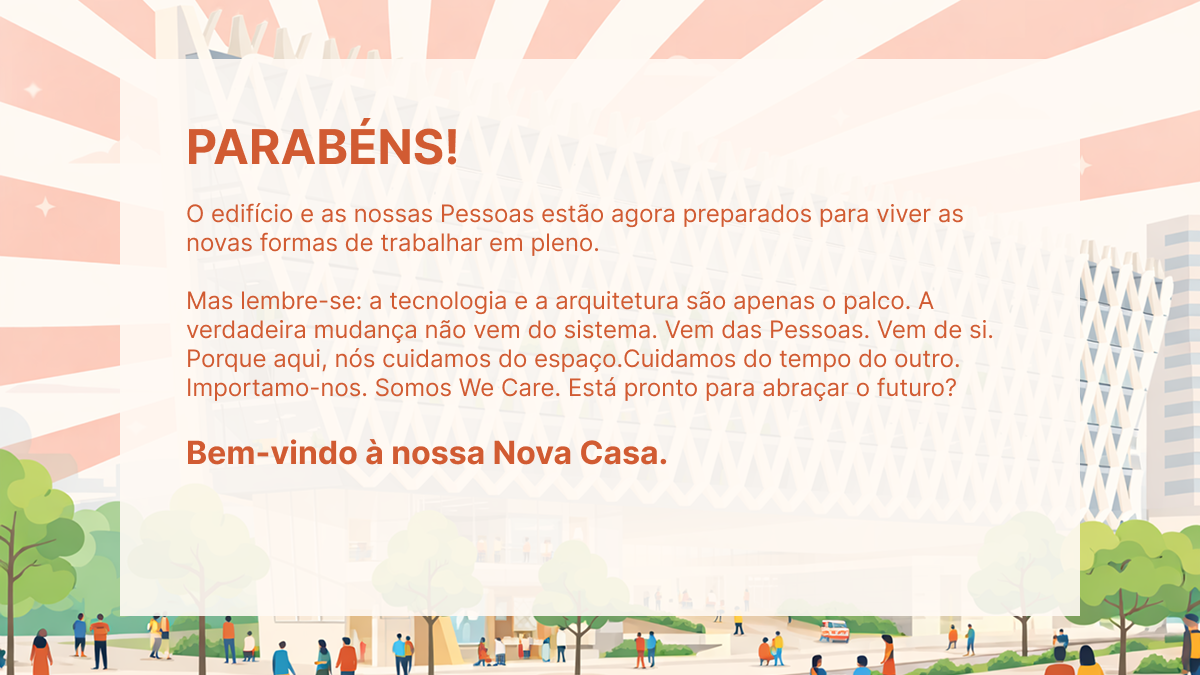
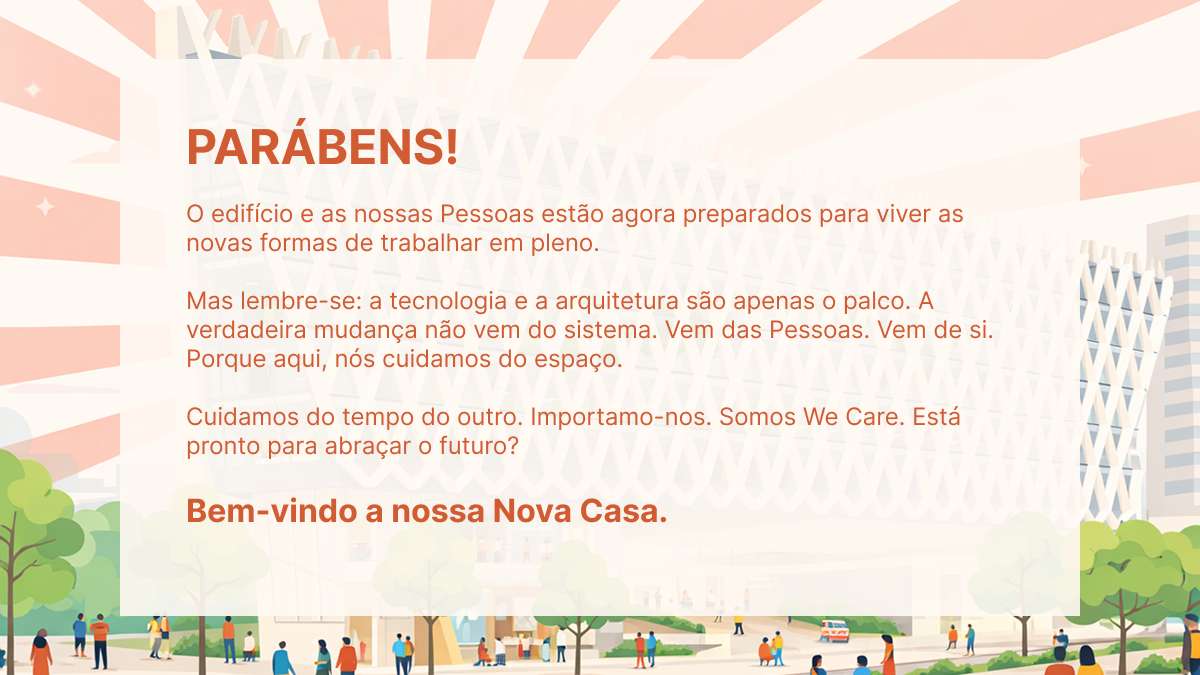
Formatação itálico para termos em inglês (Open Space, Phonebooth, huddle room, Daily) e outras alterações pendentes

Changed region(s): [[0.1542, 0.4978, 0.8017, 0.6844], [0.1542, 0.7156, 0.555, 0.7778]]

diff --git a/3_navegacao/index.html b/3_navegacao/index.html
@@ -16,12 +16,11 @@
         <!-- Ecrã de Missão (Overlay sobre o fundo do jogo) -->
         <div id="mission-screen">
             <div class="mission-content">
-                <h1 class="mission-title">A tua missão...</h1>
+                <h1 class="mission-title">A TUA MISSÃO...</h1>
                 <p class="mission-description">
-                    És o Controlador de Tráfego do Escritório! 9 colaboradores precisam de trabalhar, mas os espaços são
-                    limitados. Tua Missão: Arrasta cada pessoa para o local adequado à sua tarefa. ⚠ ATENÇÃO: Cada
-                    tarefa ocupa a sala por um tempo (segundos). Se a sala ideal estiver ocupada, coloque o colega na
-                    SALA DE ESPERA. Não deixe ninguém sem lugar!
+                    És o Office Traffic Controller! 9 colaboradores precisam de trabalhar, mas os espaços são limitados.
+                    A tua missão é arrastar cada pessoa para o local mais adequado à sua tarefa.
+                    ATENÇÃO: Cada tarefa ocupa a sala durante algum tempo. Se a sala ideal estiver ocupada, coloca o colega na SALA DE ESPERA. Não deixes ninguém sem lugar!
                 </p>
 
                 <h2 class="mission-subtitle">Tipos de tarefas</h2>
@@ -29,15 +28,15 @@
                 <div class="mission-cards">
                     <div class="mission-card card-blue">
                         <h3>E-mail / Chat</h3>
-                        <p class="location-text">OPEN SPACE</p>
+                        <p class="location-text"><i>OPEN SPACE</i></p>
                     </div>
                     <div class="mission-card card-red">
                         <h3>Confidencial / Feedback</h3>
-                        <p class="location-text">PHONEBOOTH</p>
+                        <p class="location-text"><i>PHONEBOOTH</i></p>
                     </div>
                     <div class="mission-card card-green">
-                        <h3>Daily / Alinhamento</h3>
-                        <p class="location-text">HUDDLE ROOM</p>
+                        <h3><i>Daily</i> / Alinhamento</h3>
+                        <p class="location-text"><i>HUDDLE ROOM</i></p>
                     </div>
                 </div>
 
@@ -100,7 +99,7 @@
                                 <div class="card-timer hidden"></div>
                             </div>
                         </div>
-                        <div class="workspace-label">OPEN SPACE</div>
+                        <div class="workspace-label"><i>OPEN SPACE</i></div>
                     </div>
 
                     <!-- PHONEBOOTH -->
@@ -110,7 +109,7 @@
                                 <div class="card-timer hidden"></div>
                             </div>
                         </div>
-                        <div class="workspace-label">PHONEBOOTH</div>
+                        <div class="workspace-label"><i>PHONEBOOTH</i></div>
                     </div>
 
                     <!-- HUDDLE ROOM -->
@@ -120,7 +119,7 @@
                                 <div class="card-timer hidden"></div>
                             </div>
                         </div>
-                        <div class="workspace-label">HUDDLE ROOM</div>
+                        <div class="workspace-label"><i>HUDDLE ROOM</i></div>
                     </div>
                 </div>
             </div>

diff --git a/4_sincronizacao/js/config.js b/4_sincronizacao/js/config.js
@@ -19,20 +19,20 @@ const CONFIG = {
             alert: "Alerta de Áudio: Eco detetado.",
             coords: { x: 170, y: 396 },
             options: [
-                { id: 'A', text: "Baixar volume do portátil do João", correct: false },
+                { id: 'A', text: "Baixar o volume do portátil do João:", correct: false },
                 { id: 'B', text: "Desligar microfone do portátil do João", correct: true }
             ]
         },
         {
             id: 2,
-            title: "INTERAÇÃO 2 — HEADSETS DUPLICADOS",
+            title: "INTERAÇÃO 2 — <i>HEADPHONES</i> DUPLICADOS",
             visualDesc: "Três colegas na mesa usam headsets individuais e olham para os seus próprios ecrãs",
             visualIcon: "🎧",
-            alert: "Colaboradores com headsets no mesmo espaço físico.",
+            alert: "Colaboradores com <i>headphones</i> no mesmo espaço físico.",
             coords: { x: 362, y: 260 },
             options: [
                 { id: 'A', text: "Pedir atenção aos colaboradores.", correct: false },
-                { id: 'B', text: "Pedir para retirarem os headsets e usarem o áudio da sala.", correct: true }
+                { id: 'B', text: "Pedir para retirarem os <i>headphones</i> e usarem o áudio da sala.", correct: true }
             ]
         },
         {
@@ -56,7 +56,7 @@ const CONFIG = {
             coords: { x: 539, y: 401 },
             options: [
                 { id: 'A', text: "Pedir para afastar o microfone do teclado.", correct: true },
-                { id: 'B', text: "Solicitar que colaborador desligue o microfone.", correct: false }
+                { id: 'B', text: "Pedir que colaborador desligue o microfone.", correct: false }
             ]
         },
         {
@@ -68,7 +68,7 @@ const CONFIG = {
             coords: { x: 226, y: 260 },
             options: [
                 { id: 'A', text: "Ignorar, pois não é sobre a reunião.", correct: false },
-                { id: 'B', text: "Pedir para partilhar os comentários com quem está remoto.", correct: true }
+                { id: 'B', text: "Pedir para partilhar os comentários com quem está online.", correct: true }
             ]
         }
     ],

diff --git a/2_convivencia/js/config.js b/2_convivencia/js/config.js
@@ -12,9 +12,9 @@ const CONFIG = {
     },
     TEXTS: {
         title: "Convivência",
-        startDescription: "Open space requer autorregulação e consciência de que não estamos sozinhos no espaço. Identifique os 3 atritos nesta cena.",
+        startDescription: "<i>Open space</i> requer autorregulação e consciência de que não estamos sozinhos no espaço. Identifique os 3 necessidades de ajustes nesta cena.",
         wrongClick: "Nada de errado por aqui. Você perdeu 10 segundos do tempo geral",
-        endMessage: "Atritos Identificados. Módulo de Convivência Instalado."
+        endMessage: "Necessidades de ajustes identificadas. Módulo de Convivência Instalado."
     },
     HIDDEN_SPOTS: [
         {
@@ -23,7 +23,7 @@ const CONFIG = {
             y: 270,
             width: 64,
             height: 136,
-            message: "ATRITO IDENTIFICADO. Um colaborador a falar alto ao telemóvel no meio das mesas."
+            message: "NECESSIDADE DE AJUSTE. Um colaborador a falar alto ao telemóvel no <i>open space</i>."
         },
         {
             id: "local-2",
@@ -31,7 +31,7 @@ const CONFIG = {
             y: 375,
             width: 211,
             height: 212,
-            message: "ATRITO IDENTIFICADO! Duas pessoas a ter uma reunião de pé ao lado de alguém concentrado."
+            message: "NECESSIDADE DE AJUSTE! Duas pessoas estão a ter uma reunião de pé ao lado de alguém que está concentrado, o que pode dificultar o foco no <i>open space</i>."
         },
         {
             id: "local-3",
@@ -39,7 +39,7 @@ const CONFIG = {
             y: 456,
             width: 156,
             height: 121,
-            message: "ATRITO IDENTIFICADO! Ele estava a fazer reuniões com fones, mas a falar em volume elevado."
+            message: "NECESSIDADE DE AJUSTE! Ela está a fazer reuniões com fones, mas a falar em volume elevado."
         }
     ]
 };

diff --git a/1_adaptacao/index.html b/1_adaptacao/index.html
@@ -16,10 +16,8 @@
     <!-- Ecrã de Introdução -->
     <div id="intro-screen" class="screen">
         <div class="screen-content">
-            <h1 class="screen-title">CIRCUITO NEURAL</h1>
-            <p class="screen-subtitle">O 'Circuito Neural' da mudança foi interrompido pela resistência. A energia não
-                está a fluir. A sua missão é criar um caminho contínuo que conecte a 'Entrada de Energia' até à 'Saída',
-                passando pelos 3R na ordem correta</p>
+            <h1 class="screen-title">CIRCUITO DE ADAPTAÇÃO</h1>
+            <p class="screen-subtitle"> O “circuito neural” da mudança foi interrompido pela resistência. A energia deixou de fluir. A tua missão é criar um caminho contínuo que ligue a Entrada de Energia à Saída, passando pelos 3R na ordem correta.</p>
             <img src="assets/buttons/botao_comecar.png" alt="Começar" class="btn-image" id="startGameBtn">
         </div>
     </div>
@@ -32,8 +30,7 @@
             <div class="circuit-marker circuit-marker-end" id="marker-end">ADAPTAÇÃO<br>CONCLUÍDA</div>
             <div id="overlay">
                 <h1 class="overlay-title">CIRCUITO ESTABILIZADO!</h1>
-                <p class="overlay-text">A corrente flui corretamente: <br> Reconhecimento &gt; Respeito &gt;
-                    Reorientação.<br>
+                <p class="overlay-text">A corrente flui corretamente: <br> Reconhecimento &gt; Respeito &gt; Reorientação.<br>
                     Módulo de Adaptação online</p>
                 <button class="btn btn-return-panel" onclick="localStorage.setItem('escaperoom_progress', '1'); window.location.href='/principal/';">Voltar ao Painel de Controlo</button>
             </div>

diff --git a/6_organizacao/js/config.js b/6_organizacao/js/config.js
@@ -33,17 +33,17 @@ const CONFIG = {
 
     TEXTS: {
         introMessage:
-            "ORGANIZAÇÃO:\nAnalise os objetos destacados e decida o destino imediato: LIXO, CACIFO ou MANTER NA MESA. Depois, deverá ir à zona de Cacifos e guardar os seus pertences",
+            "ORGANIZAÇÃO:\nObserva os objetos e decide o destino imediato de cada um: LIXO, CACIFO ou MANTER NA MESA.<br>Depois, deverás ir à zona dos cacifos e guardar os teus pertences.",
         phase1Header: "FASE 1 - ARRUMAR A MESA",
         phase2Header: "FASE 2 - GUARDAR NO CACIFO",
         phase2Instruction: "Escolha um armário, defina a senha e depois reencontre-o.",
-        allPhase1Done: "Mesa organizada. Agora siga para os cacifos.",
+        allPhase1Done: "Secretária 100% limpa e organizada. Protocolo Clean Desk validado.<br>Vamos até à zona de cacifos para guardar os pertences",
         wrongChoice: "Destino incorreto.",
         localIncorreto: "Local incorreto!",
         rightChoice: "Correto!",
         pinSetPrompt: "CRIE UMA SENHA",
         pinEnterPrompt: "INSIRA A SENHA",
-        phase2FindLockerPrompt: "Agora, encontre ter cacifo e insira a senha para coletar seus pertences",
+        phase2FindLockerPrompt: "Agora, encontre teu cacifo e insira a senha para coletar teus pertences",
         winTitle: "ACESSO PERMITIDO",
         winMsg: "Você concluiu as duas fases da organização.",
         loseTitle: "SISTEMA BLOQUEADO",

diff --git a/2_convivencia/index.html b/2_convivencia/index.html
@@ -18,8 +18,7 @@
             <div class="intro-content">
                 <h1 class="intro-title">Convivência</h1>
                 <p class="intro-description">
-                    Open space requer autorregulação e consciência de que não estamos sozinhos no espaço.
-                    Identifique os 3 atritos nesta cena.
+                    O <i>open space</i> exige autorregulação e consciência de que partilhamos o espaço com outras pessoas. <br>Identifica as necessidades de ajustes nesta cena.
                 </p>
                 <button id="start-btn" class="image-btn" aria-label="Iniciar jogo">
                     <img src="assets/botao_iniciar.png" alt="Iniciar">
@@ -30,7 +29,7 @@
         <div id="game-screen" class="screen hidden">
             <div id="scene-area" aria-label="Cena interativa de convivência"></div>
             <div id="message-layer" aria-hidden="true"></div>
-            <div id="status-pill">Atritos identificados: <span id="found-count">0</span>/3</div>
+            <div id="status-pill">Necessidades de ajustes identificadas: <span id="found-count">0</span>/3</div>
         </div>
 
         <div id="victory-screen" class="screen hidden">

diff --git a/6_organizacao/index.html b/6_organizacao/index.html
@@ -23,8 +23,8 @@
             <h1>ORGANIZAÇÃO</h1>
             <p id="start-message">
                 ORGANIZAÇÃO:<br>
-                Analise os objetos destacados e decida o destino imediato: LIXO, CACIFO ou MANTER NA MESA.
-                Depois, deverá ir à zona de Cacifos e guardar os seus pertences.
+                Observa os objetos e decide o destino imediato de cada um: LIXO, CACIFO ou MANTER NA MESA.<br>
+                Depois, deverás ir à zona dos cacifos e guardar os teus pertences.
             </p>
             <button id="start-btn" class="image-btn">
                 <img src="assets/buttons/botao_iniciar.png" alt="Iniciar Jogo">
@@ -55,7 +55,7 @@
             <div id="lockers-intro-screen" class="hidden">
                 <div class="lockers-intro-overlay">
                     <p id="lockers-intro-message">
-                        Selecione um cacifo<br>
+                        Escolhe um cacifo para guardar<br>
                         Crie uma senha depois selecine o mesmo cacifo e digita a senha
                     </p>
                     <button id="lockers-intro-btn" class="image-btn">

diff --git a/4_sincronizacao/js/game.js b/4_sincronizacao/js/game.js
@@ -151,10 +151,10 @@ class GameController {
         this.elements.rightPanel.style.opacity = '1';
 
         // Content
-        this.elements.scenarioTitle.textContent = scenario.title;
+        this.elements.scenarioTitle.innerHTML = scenario.title;
         this.elements.instructionText.textContent = "Escolhe a ação corretiva:";
         
-        this.elements.alertTitle.textContent = scenario.alert;
+        this.elements.alertTitle.innerHTML = scenario.alert;
         this.elements.alertVisualDesc.textContent = scenario.visualDesc;
         this.elements.alertBox.style.display = 'flex'; 
 
@@ -163,7 +163,7 @@ class GameController {
         scenario.options.forEach(option => {
             const btn = document.createElement('button');
             btn.className = 'option-btn';
-            btn.textContent = option.text;
+            btn.innerHTML = option.text;
             btn.addEventListener('click', () => this.handleOption(option.id, option.correct));
             this.elements.optionsContainer.appendChild(btn);
         });

diff --git a/principal/css/style.css b/principal/css/style.css
@@ -223,7 +223,7 @@ body {
     text-shadow: 0 1px 3px rgba(0, 0, 0, 0.9);
 }
 
-/* Estado: Ativo (aguardando chave) */
+/* Estado: Ativo (A AGUARDAR CHAVE) */
 .monitor.active {
     border-color: var(--color-active);
     background-color: rgba(230, 194, 0, 0.1);
@@ -233,7 +233,7 @@ body {
 }
 
 .monitor.active::after {
-    content: "AGUARDANDO CHAVE";
+    content: "A AGUARDAR CHAVE";
     font-size: 1.2rem;
     color: var(--color-active);
     font-weight: bold;

diff --git a/principal/js/config.js b/principal/js/config.js
@@ -5,7 +5,7 @@ const CONFIG = {
     COLORS: {
         background: "#1a1a2e", 
         screenLocked: "#cf4545",       // Vermelho
-        screenActive: "#e6c200",       // Amarelo (aguardando chave)
+        screenActive: "#e6c200",       // Amarelo (A AGUARDAR CHAVE)
         screenUnlocked: "#45cf78",     // Verde
         screenCompleted: "#2a8a4a",    // Verde escuro (concluído)
         screenNeutral: "#333333",      // Cinza desligado

diff --git a/2_convivencia/js/game.js b/2_convivencia/js/game.js
@@ -125,7 +125,7 @@ class GameController {
 
         const messageEl = document.createElement('div');
         messageEl.className = `scene-message ${type}`;
-        messageEl.textContent = message;
+        messageEl.innerHTML = message;
         this.messageLayer.appendChild(messageEl);
 
         const maxLeft = Math.max(0, CONFIG.GAME_WIDTH - messageEl.offsetWidth - 12);

diff --git a/4_sincronizacao/index.html b/4_sincronizacao/index.html
@@ -31,7 +31,7 @@
                     </div>
                     <div class="intro-card">
                         <h3>Risco:</h3>
-                        <p>Erros penalizam tempo e bloqueiam o sistema.</p>
+                        <p>Os erros penalizam o tempo e podem bloquear o sistema. </p>
                     </div>
                 </div>
 
